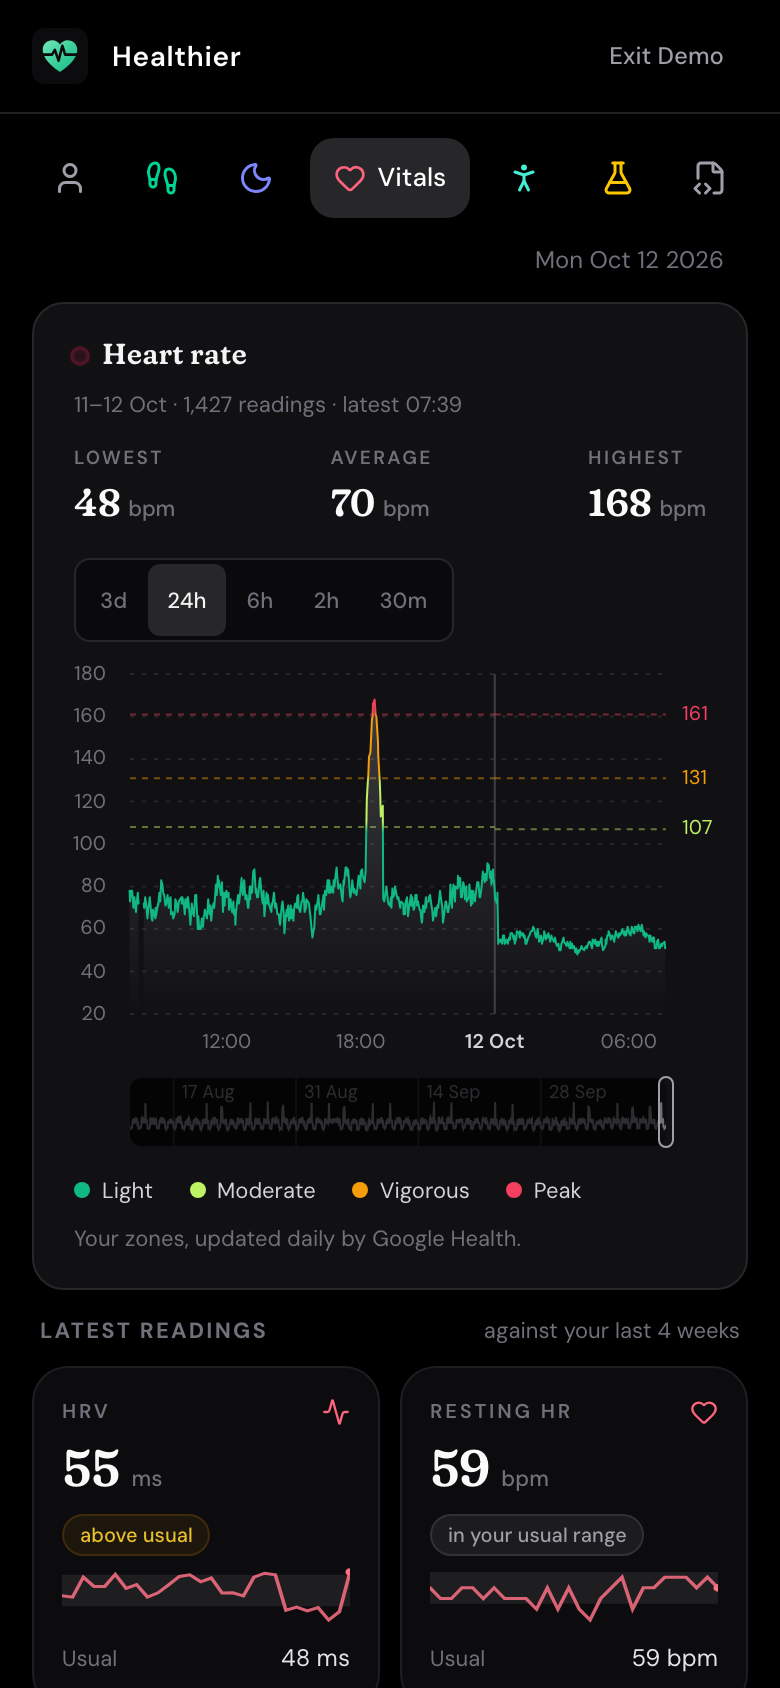
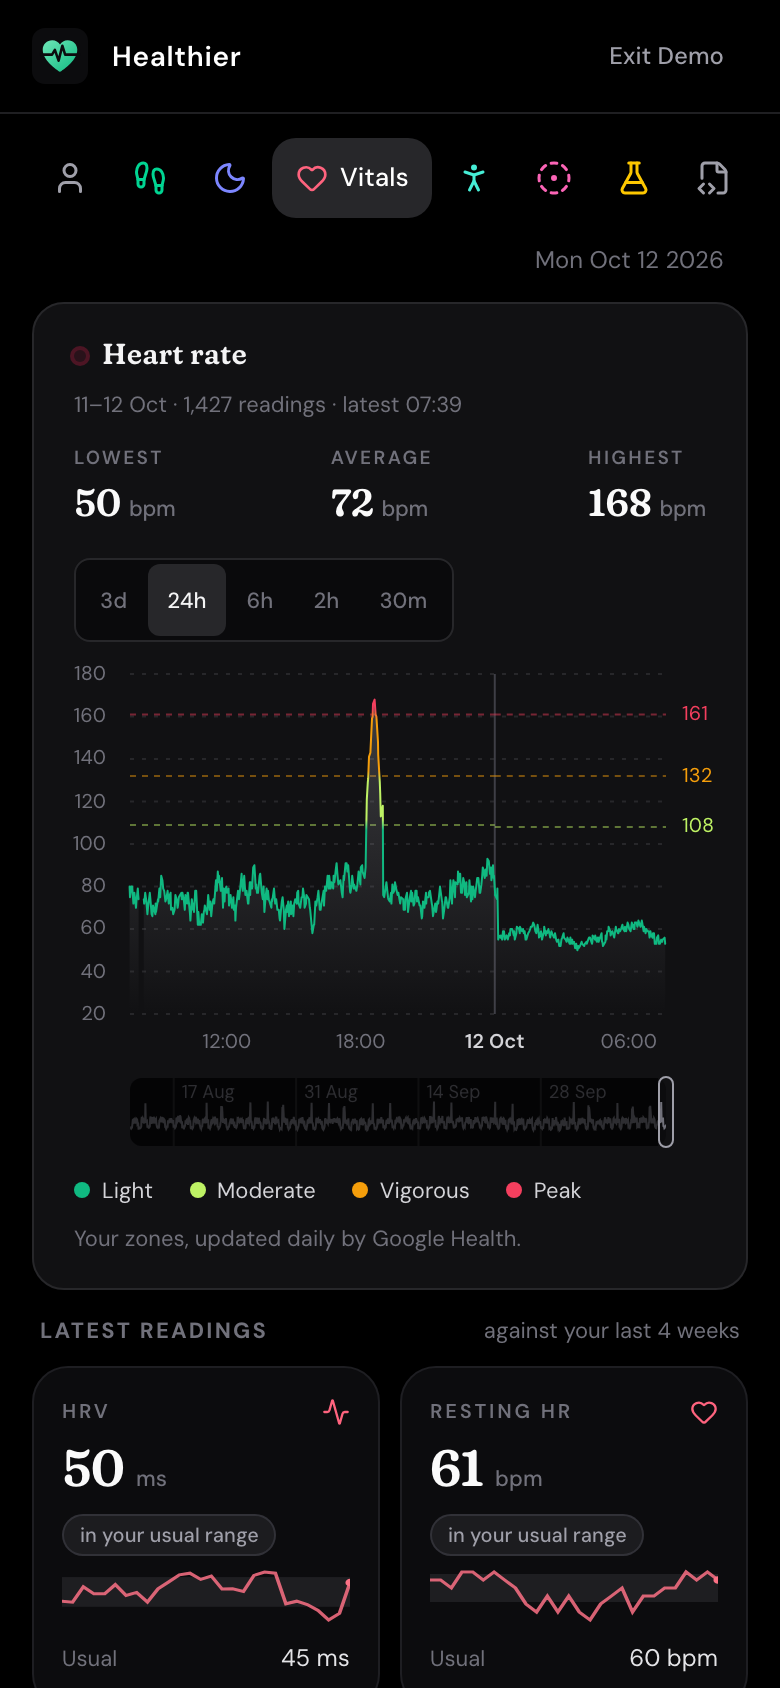
README: screenshots after the Cycle page, and the Cycle page in the tour (#88)
The README's screenshots, retaken from demo mode now that #85–#87 are
in, and the Cycle page added to the tour.

**Merge after #89:** the Data page screenshot shows #89's layout, and
the tour mentions its switch for the other pages.

- **Why retake them:** since the Cycle PRs, the nav has a Cycle tab, the
Data page has the cycle tracking card, and the demo person's nights
follow a cycle, which moves a few of its numbers (the body battery reads
59 instead of 65).
- **Same shots, same sizes:** desktop 1280×860 at 1x, phone 390×844 at
2x, every one from demo mode with made-up data.
- **The tour:** the Cycle paragraph now sits beside a screenshot of the
Cycle page, and gains one sentence: while tracking is on, the other
pages allow for the cycle.

diff --git a/README.md b/README.md
@@ -83,10 +83,12 @@ place at a time: on Today while it matters, otherwise on its own page.
   </tr>
 </table>
 
-**Cycle.** For anyone who has periods, and off until it's turned on in Data. Healthier finds your
-cycles in your nightly temperature, resting heart rate and HRV, whether or not you log anything.
-It shows your body through the cycle and gives the next period as a range from your own cycles.
-Anything you log, kept encrypted on your own server, makes the cycles more certain.
+<table>
+  <tr>
+    <td width="50%" valign="top"><img src="docs/screenshots/cycle.png" alt="The Cycle page: day 18, the next period as a range, and how it was reached"></td>
+    <td width="50%" valign="top"><b>Cycle.</b> For anyone who has periods, and off until it's turned on in Data. Healthier finds your cycles in your nightly temperature, resting heart rate and HRV, whether or not you log anything. It shows your body through the cycle and gives the next period as a range from your own cycles. Anything you log, kept encrypted on your own server, makes the cycles more certain. While it's on, the other pages allow for your cycle, so the usual rise in its second half isn't called unusual, unless you turn that off in Data.</td>
+  </tr>
+</table>
 
 ## Try the demo
 
